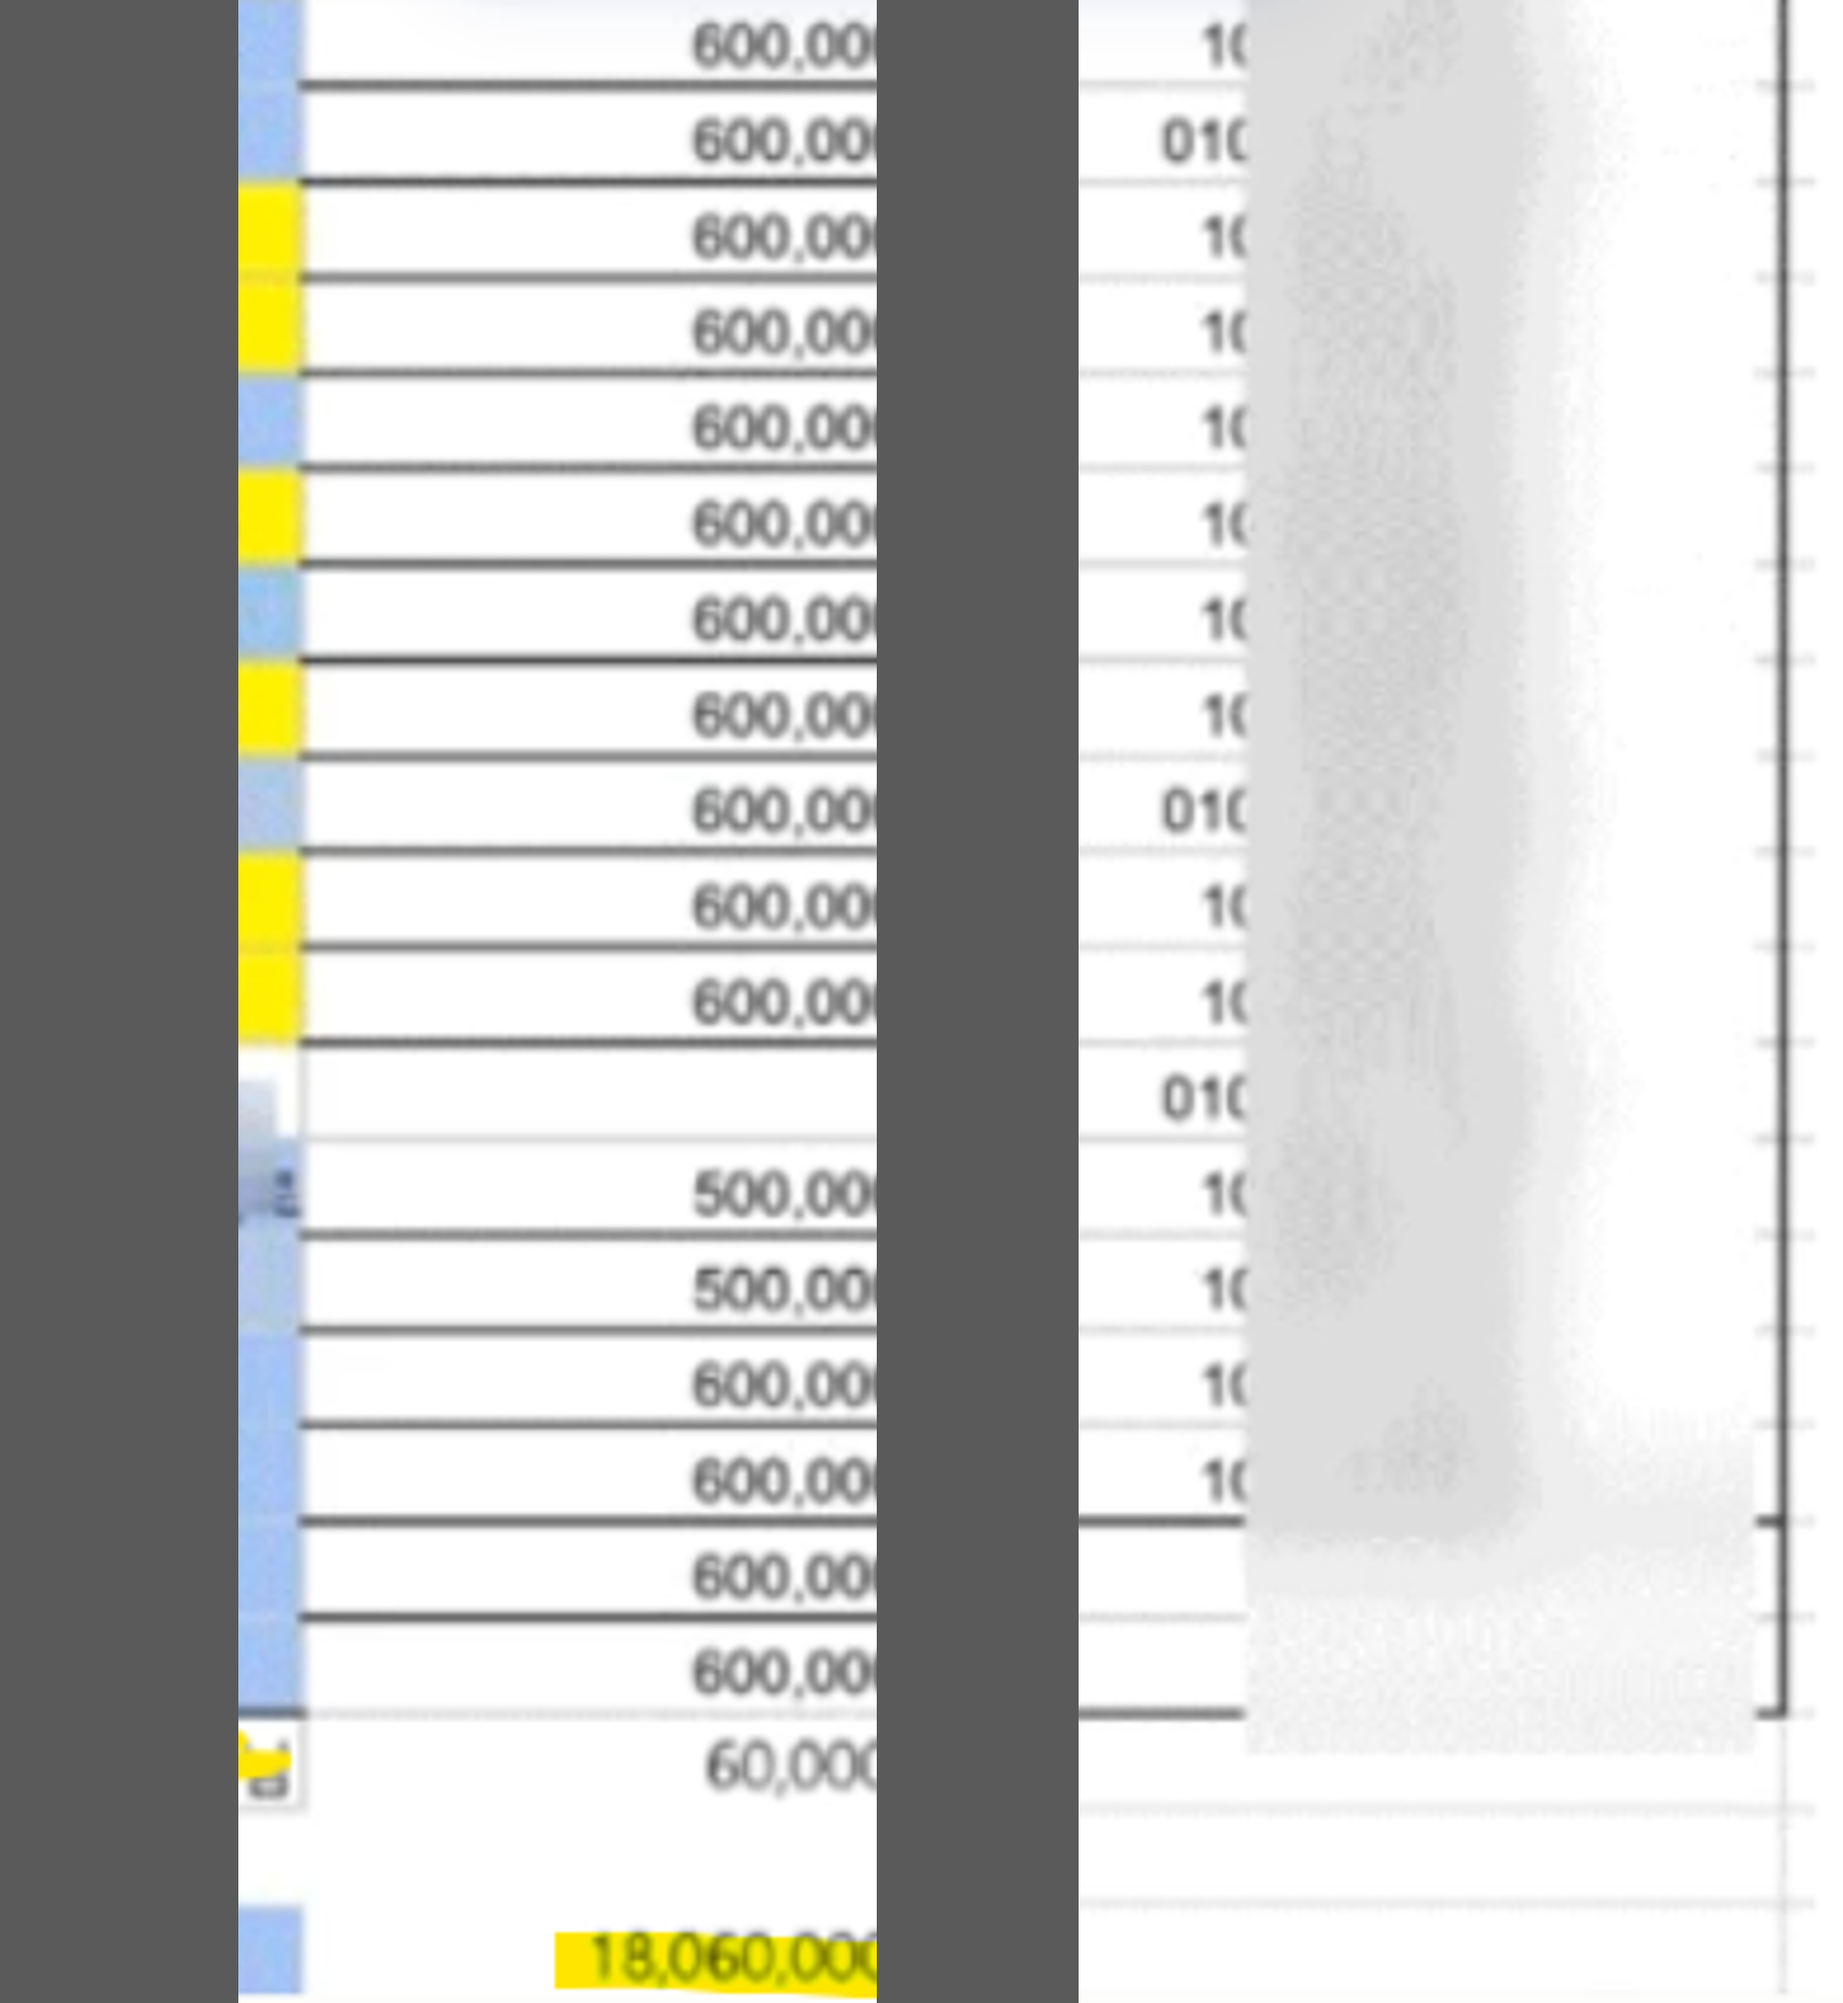
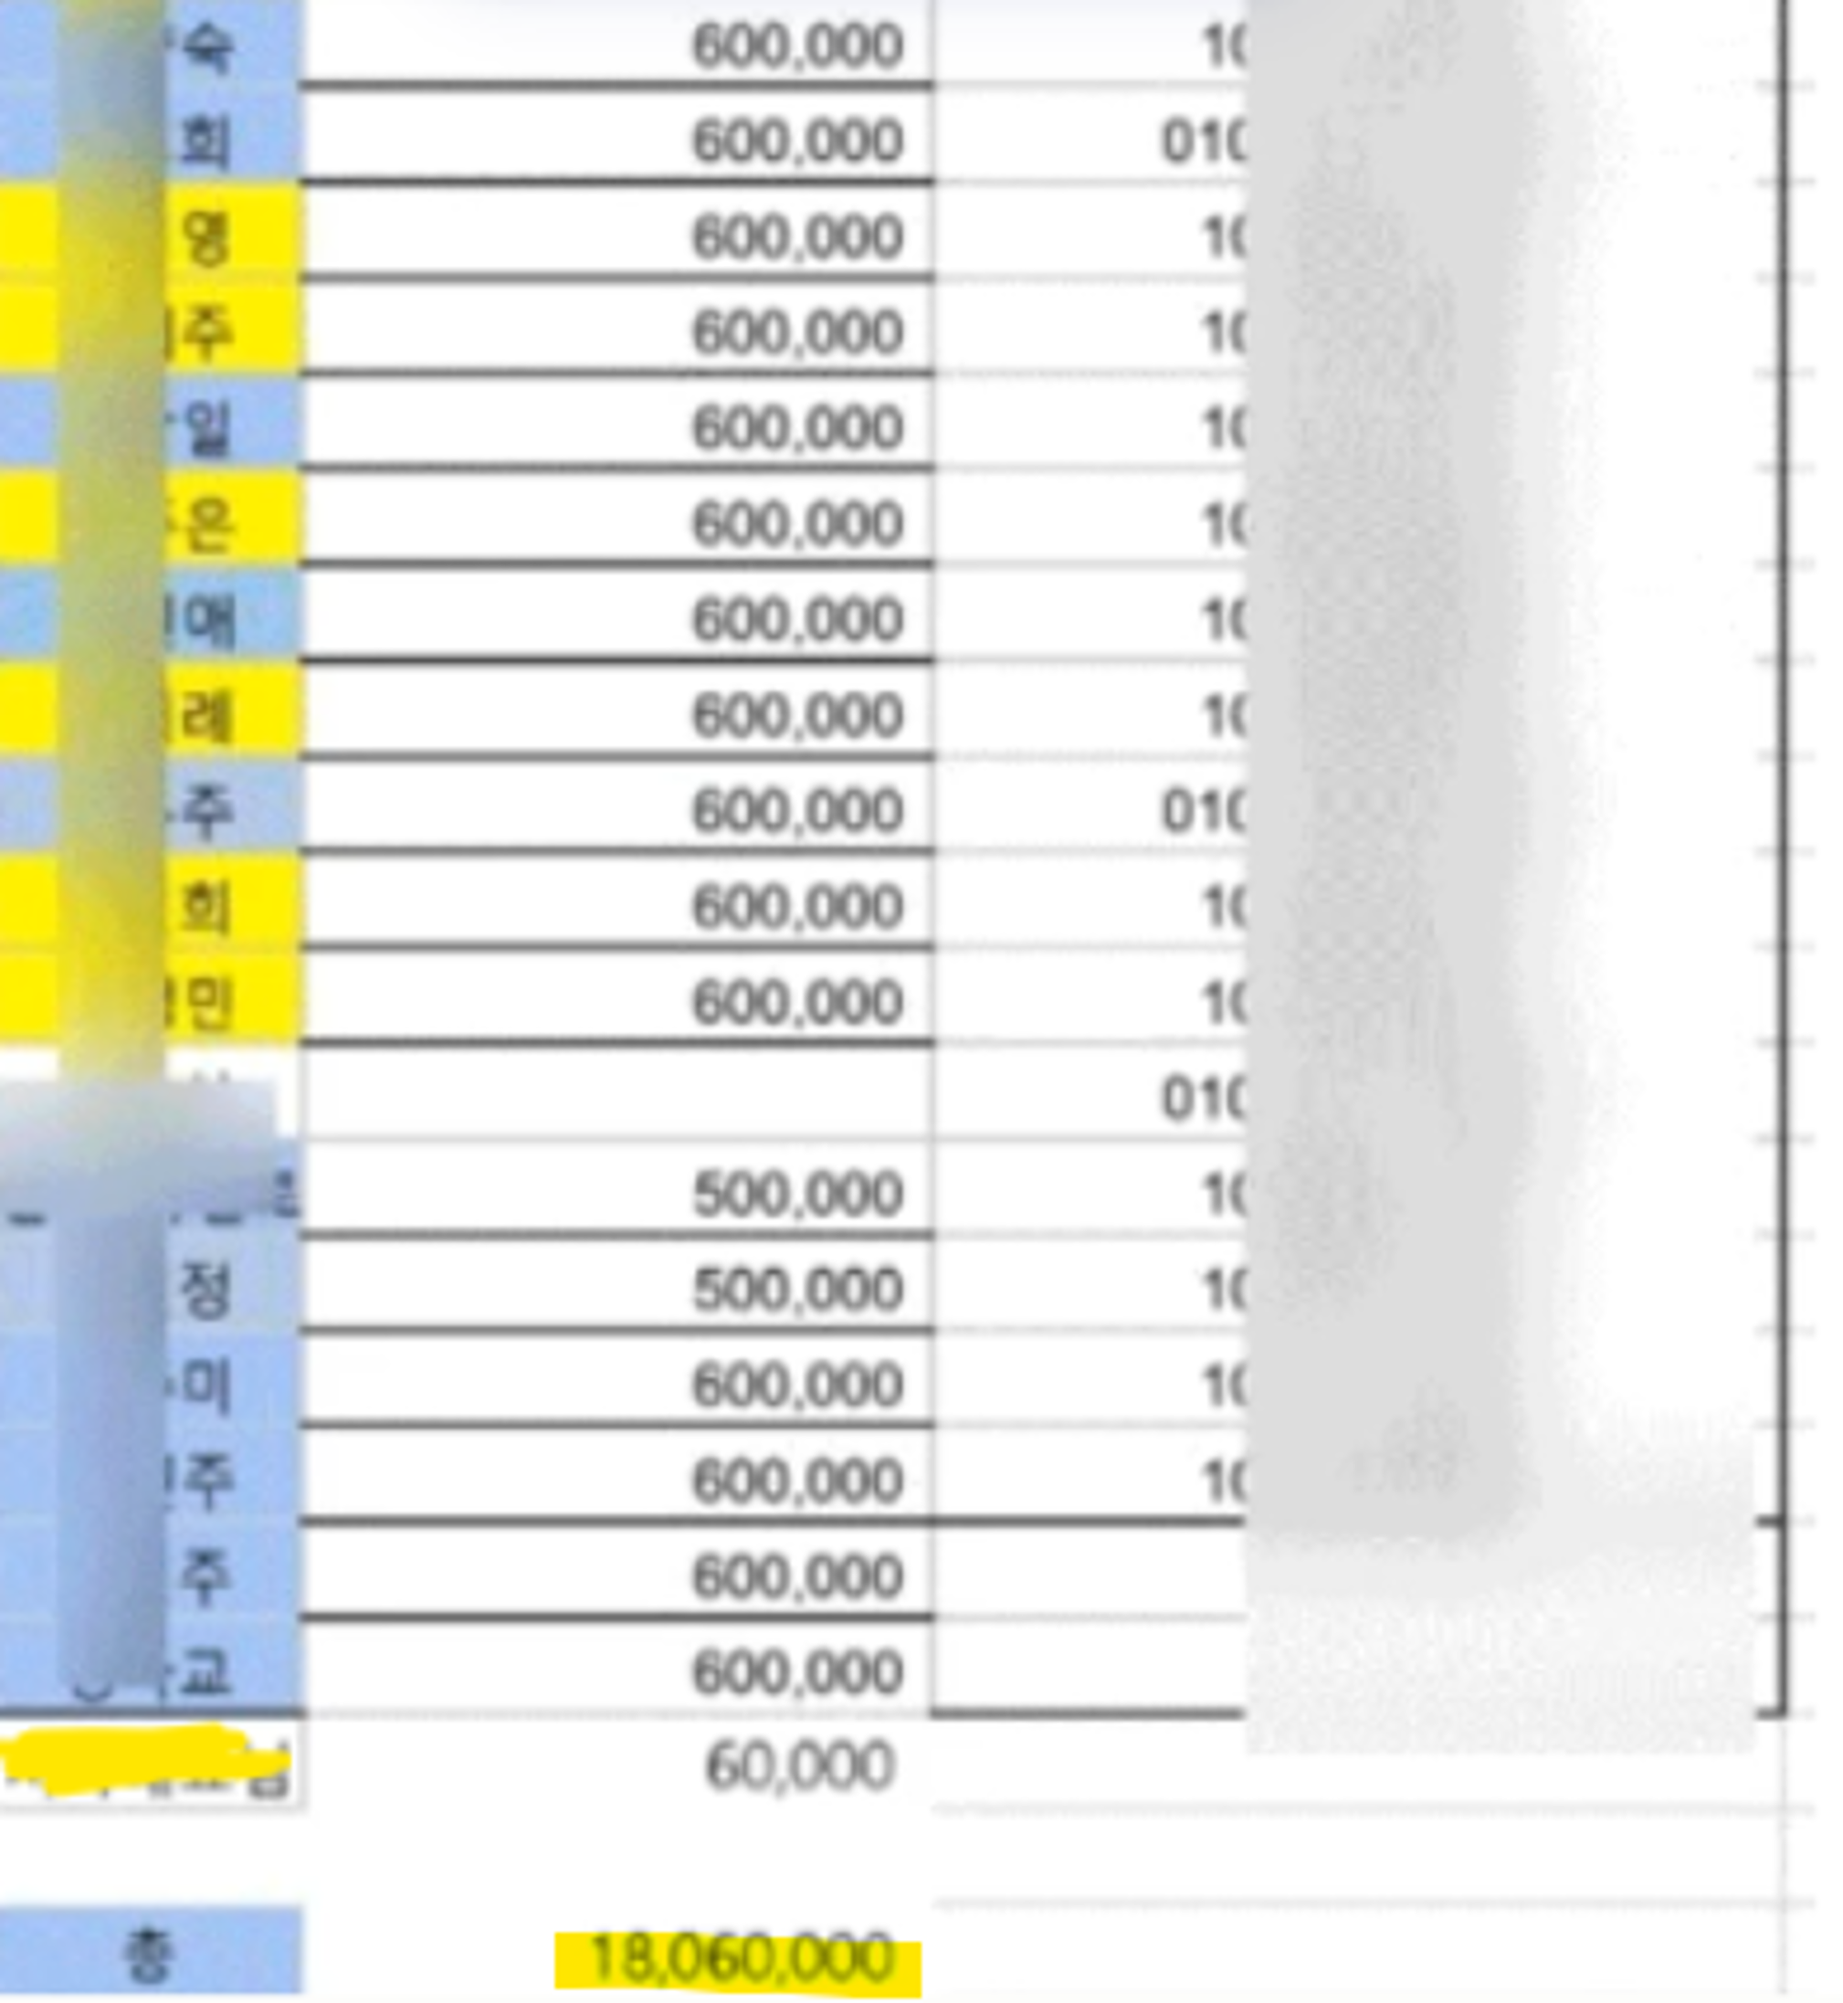
정산 내역 캡처를 대표님 확인 하에 원본(비모자이크)으로 교체

Changed region(s): [[0.0, 0.0, 0.1561, 1.0], [0.4683, 0.0, 0.5932, 1.0]]

diff --git a/index.html b/index.html
@@ -119,7 +119,7 @@
       <a href="reviews/perf-17.png" target="_blank" rel="noopener"><img src="reviews/perf-17.png" alt="실제 정산 내역" loading="lazy"></a>
       <a href="reviews/perf-18.png" target="_blank" rel="noopener"><img src="reviews/perf-18.png" alt="실제 정산 내역" loading="lazy"></a>
     </div>
-    <p class="gallery-note">※ 개인정보 보호를 위해 전화번호·이름 등은 가렸습니다.</p>
+    <p class="gallery-note">※ 실제 정산 내역 원본 캡처입니다.</p>
 
     <!-- TODO: 대표님이 선별한 후기 사진, 영상 삽입 예정 -->
   </div>
